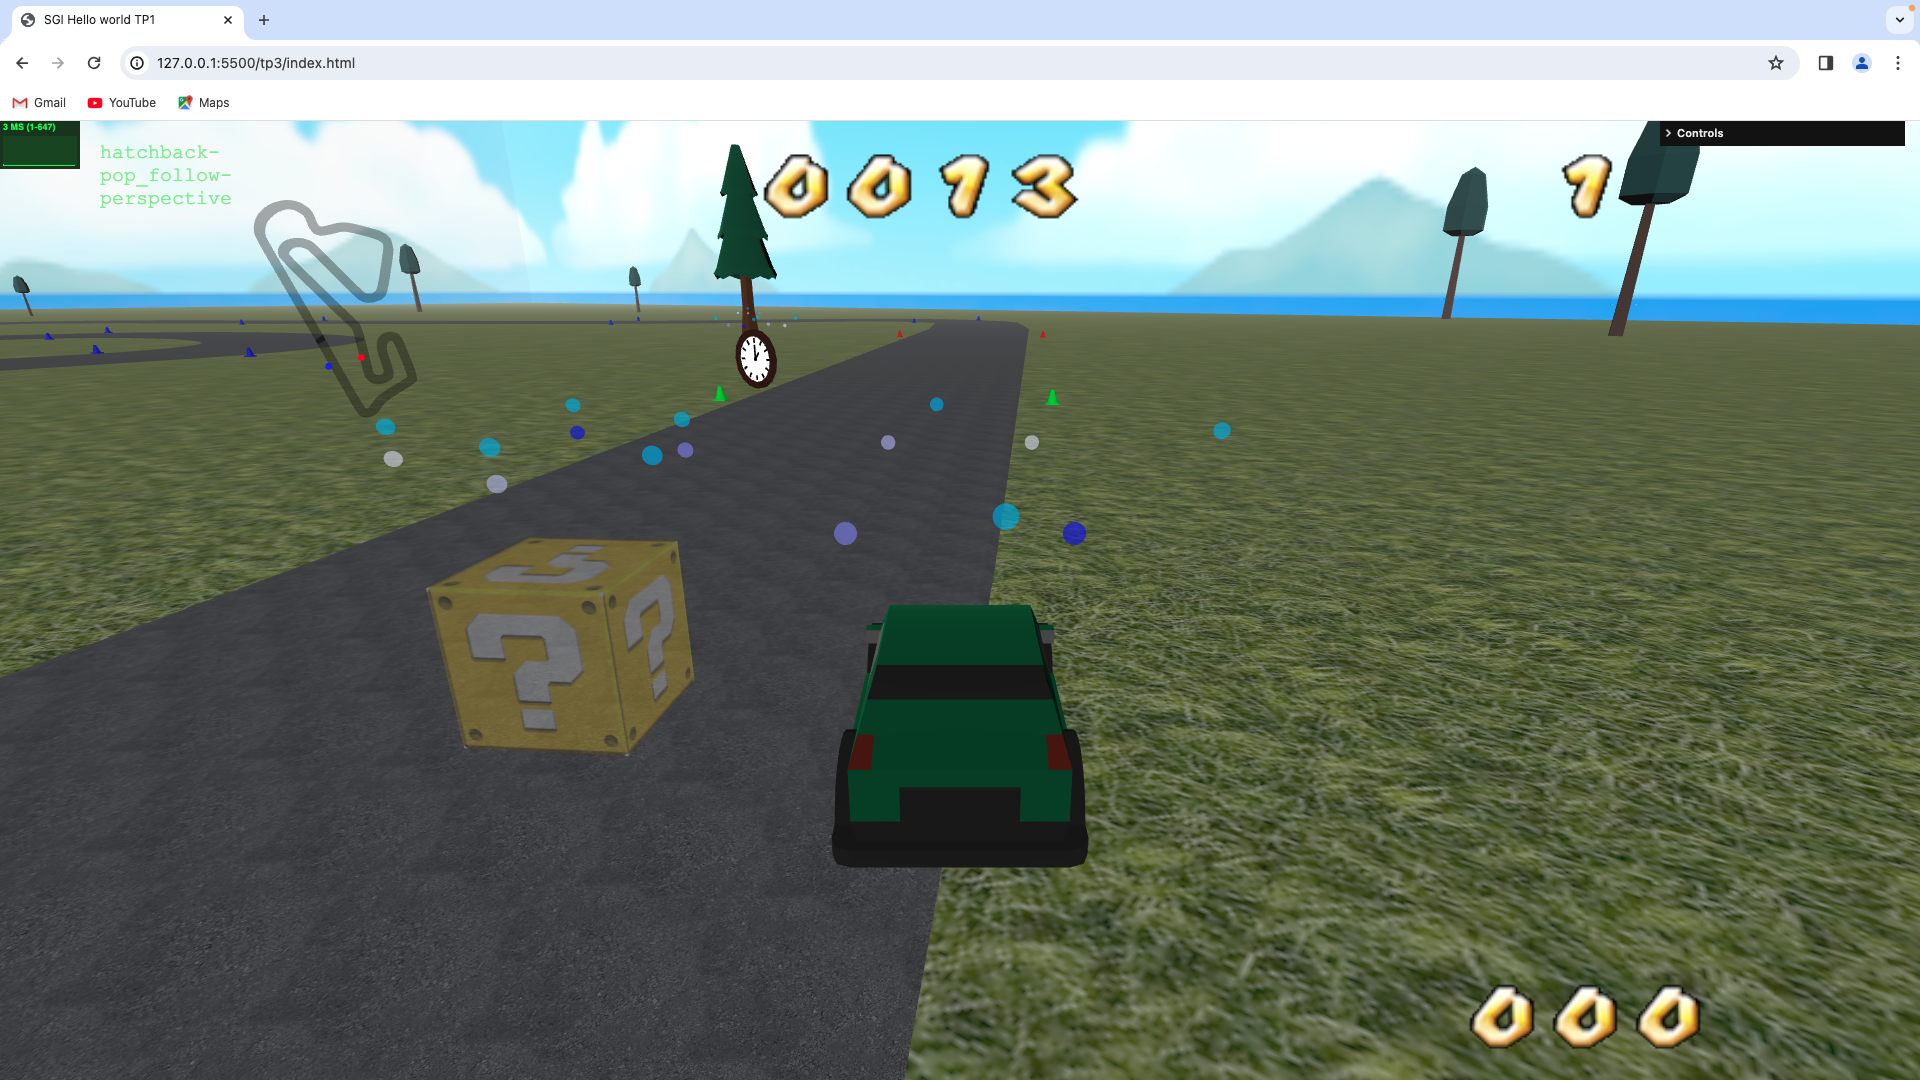
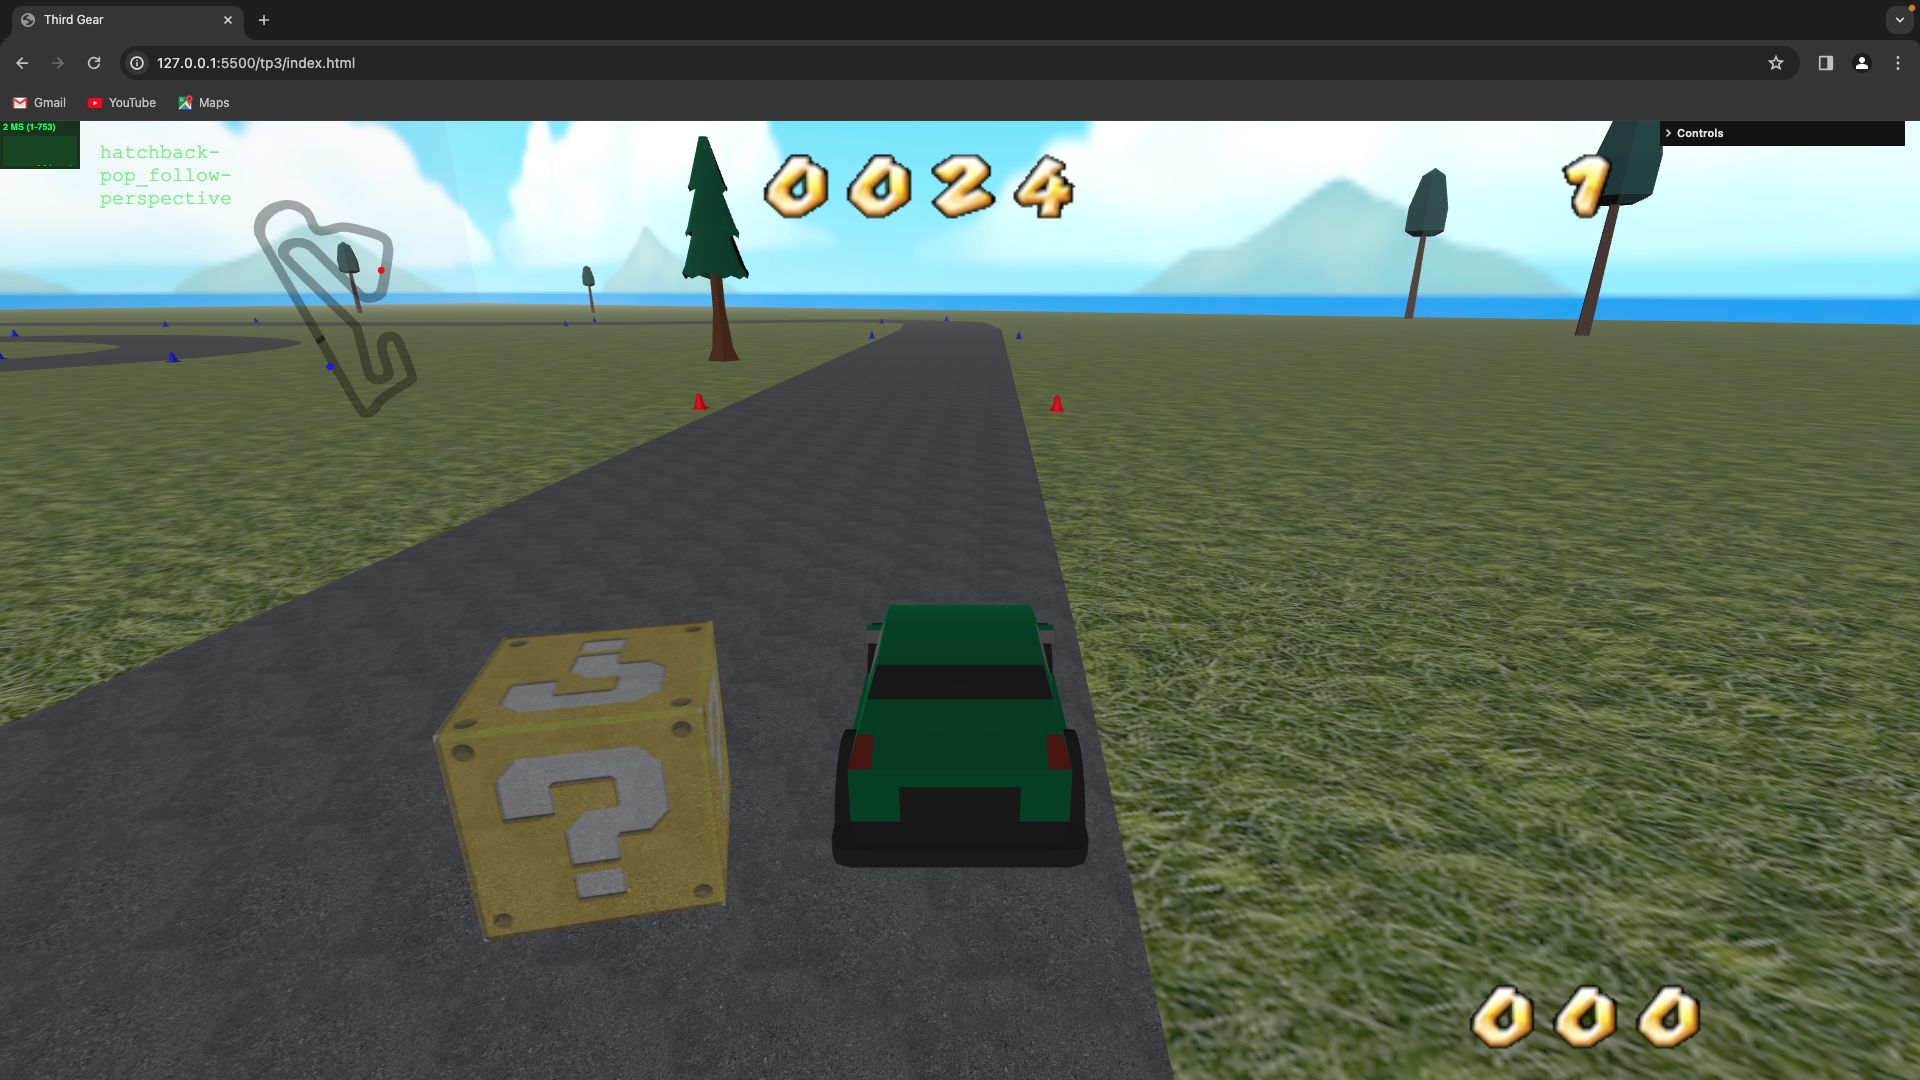
fixed opponent's time situation

diff --git a/tp3/manager/states/RaceState.js b/tp3/manager/states/RaceState.js
@@ -426,25 +426,28 @@ class RaceState extends GameState {
             this.manager.currCheckpoint++;
         }
 
-        if (this.manager.opponentLapCount == 4 && this.manager.opponentFinish == false) {
+        if (this.manager.opponentLapCount == 3 && this.manager.opponentFinish == false) {
             this.manager.opponentFinish = true;
             this.manager.opponentTotalTime.stop();
+            
         }
-
-        if (this.manager.lapCount == 4 && this.manager.opponentLapCount < 4) {
-            this.manager.winner = this.manager.playerName;
-            this.manager.loser = "Opponent";
-        } else {
-            this.manager.winner = "Opponent";
-            this.manager.loser = this.manager.playerName;
-        }
+        
 
         if (this.manager.lapCount == 4) {
             this.manager.playerTotalTime.stop();
+            
+            if (this.manager.opponentLapCount < 3) {
+                this.manager.winner = this.manager.playerName;
+                this.manager.loser = "Opponent";
+            } else {
+                this.manager.winner = "Opponent";
+                this.manager.loser = this.manager.playerName;
+            }
             this.contents.switchScenes("finalMenu");
+            return;
         }
 
-        this.countAllTime(delta);
+
     }
 
     /**
@@ -489,9 +492,6 @@ class RaceState extends GameState {
         this.manager.lapClock.start();
     }
 
-    countAllTime(delta) {
-        this.manager.totalTime += delta;
-    }
 
     pause() {
         this.paused = true;

diff --git a/tp3/MyFirework.js b/tp3/MyFirework.js
@@ -140,7 +140,7 @@ class MyFirework {
      * cleanup
      */
     reset() {
-        // console.log("firework reseted")
+
         this.app.scene.remove( this.points )  
         this.futureDestinations     = [] 
         this.vertices = null
